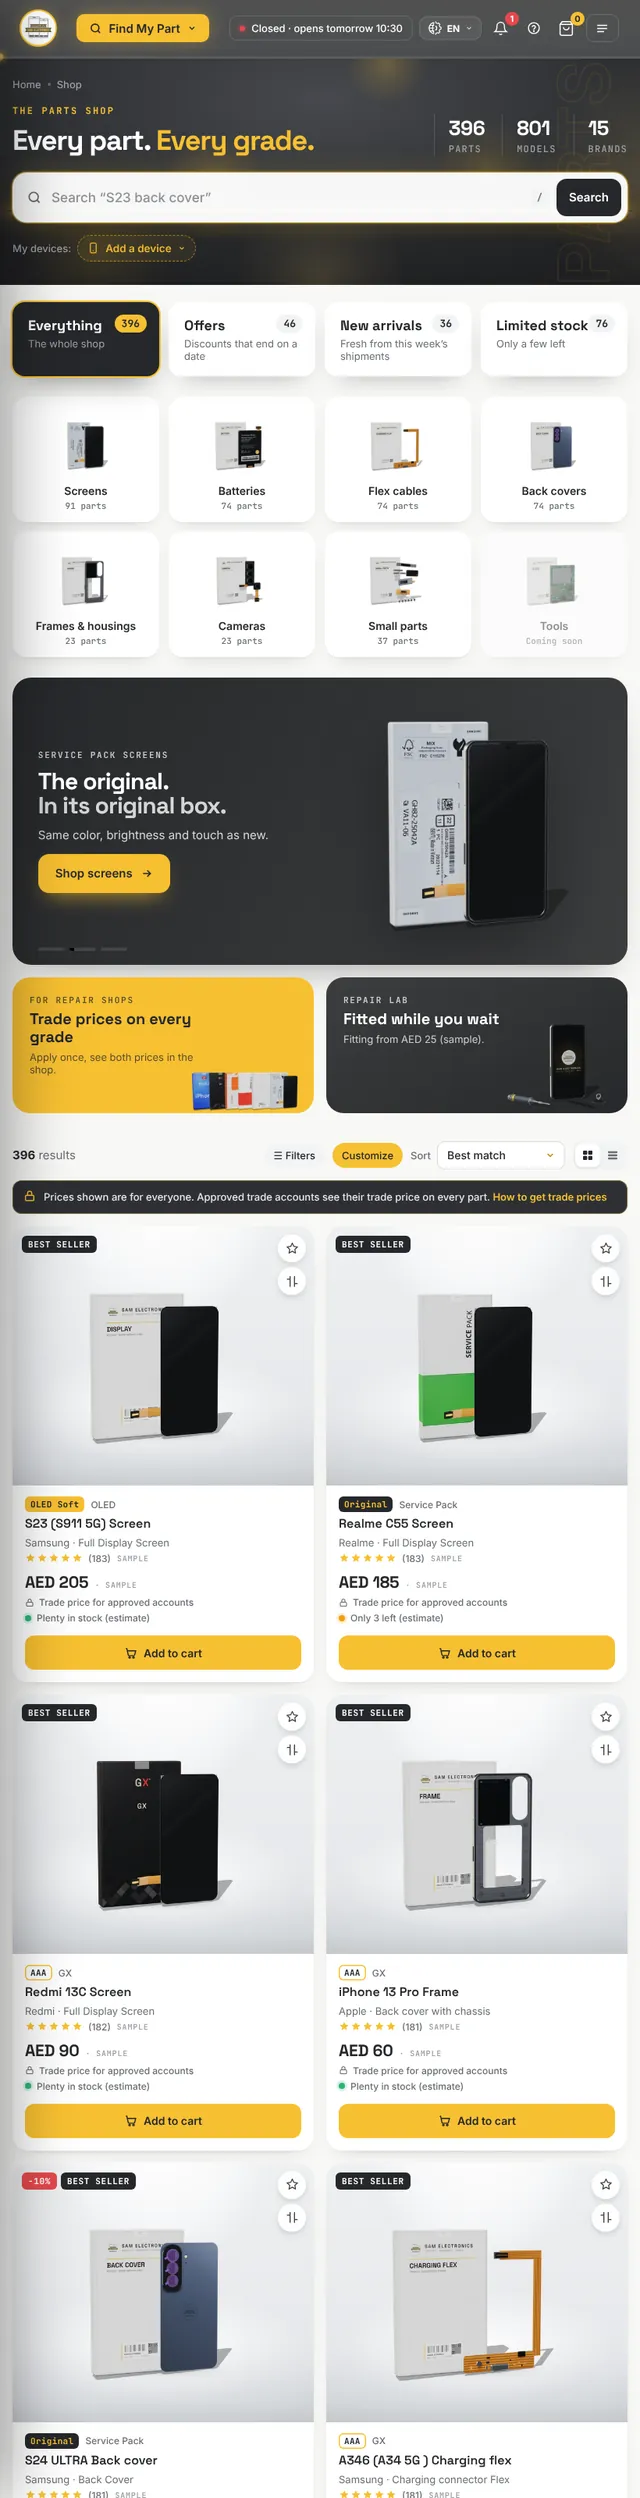
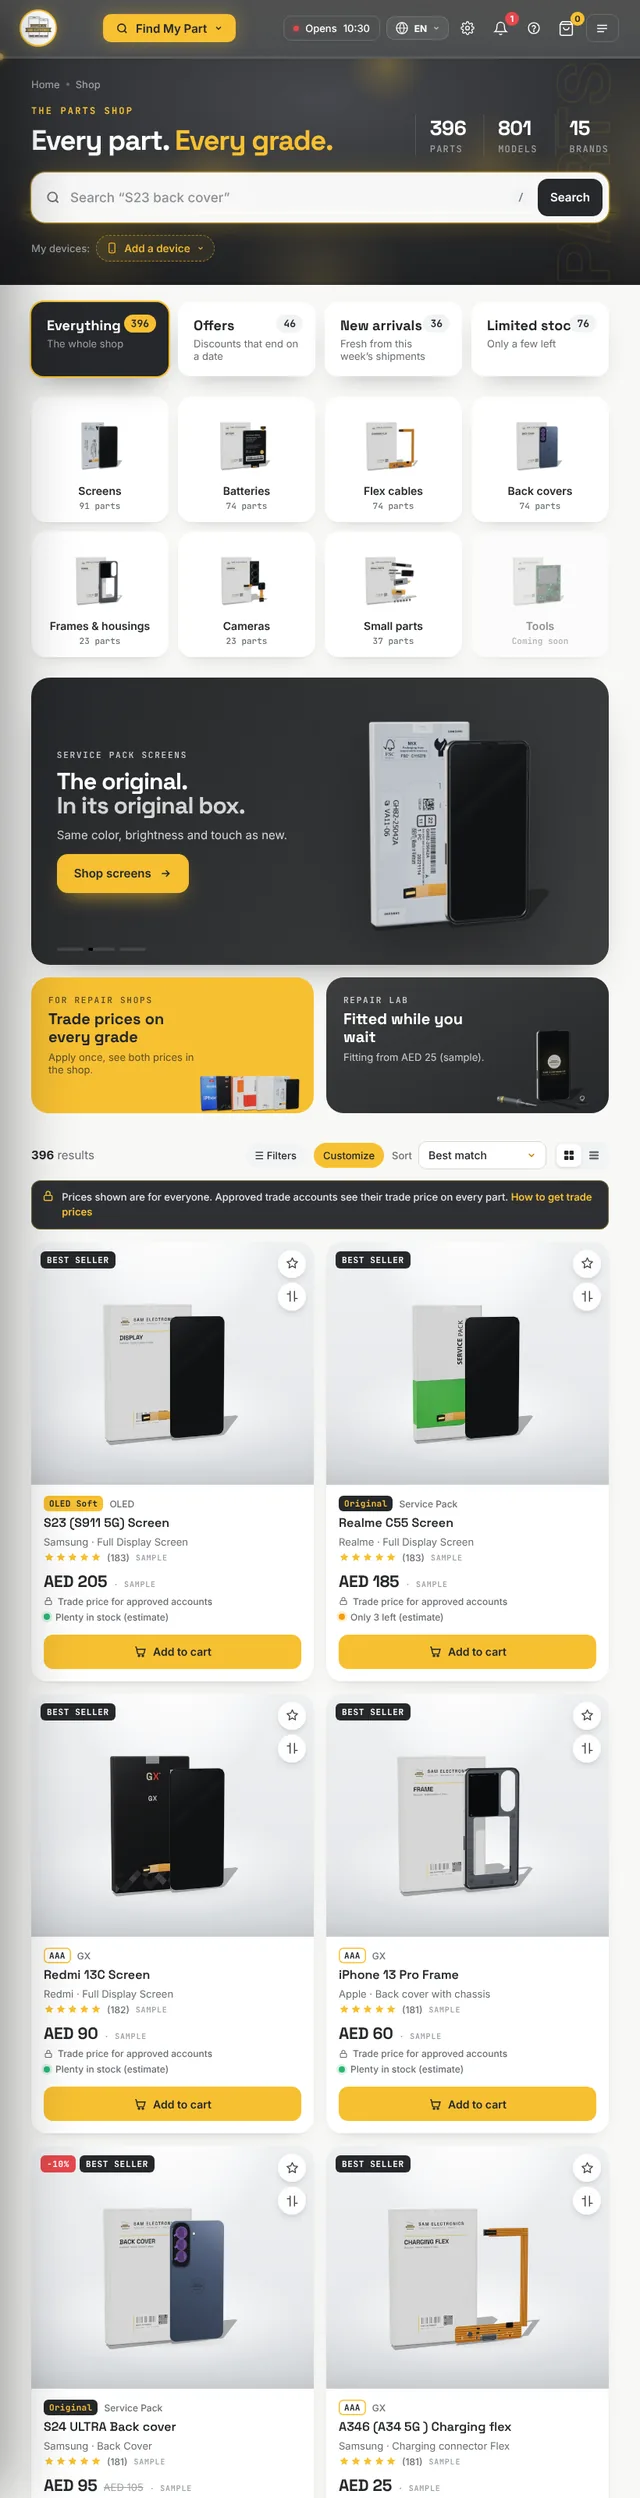
Hero iPad shows the real store with proper margins; slim titanium side buttons; clean thin-edged device drawings; phone and tablet bars evenly spaced with matching buttons
Claude-Session: https://claude.ai/code/session_01P8AckSMADMeGBQ4akRKdxc

diff --git a/site/src/components/home/DeviceIcon.tsx b/site/src/components/home/DeviceIcon.tsx
@@ -1,61 +1,63 @@
-// Owner (26 Oct): the phone / tablet / watch icons were plain outlines. These are small product drawings: a metal body,
-// a glossy screen with a soft glare, the island / camera, side buttons, the watch strap and crown. The accent follows
-// currentColor (white, or yellow when selected).
+// R12 (owner: "cartoonish, thick edges"): clean product drawings. A thin titanium edge (light rolled highlight, darker
+// band), near edge-to-edge black glass with a soft diagonal reflection, and only the real details: the Dynamic Island,
+// the iPad's front camera, the watch's crown, side button and woven band. No outlines, no fake home bar.
 import React from 'react';
 
 type Kind = 'phone' | 'tablet' | 'watch';
 
 export default function DeviceIcon({ kind, size = 22 }: { kind: Kind | string; size?: number }) {
-  const id = 'di' + kind;
+  const id = 'dv' + kind;
   const defs = (
     <defs>
-      <linearGradient id={id + 'b'} x1="0" y1="0" x2="1" y2="1">
-        <stop offset="0" stopColor="#D2D5D9" />
-        <stop offset=".45" stopColor="#7C8086" />
-        <stop offset="1" stopColor="#B6BABF" />
+      <linearGradient id={id + 'm'} x1="0" y1="0" x2="1" y2="0">
+        <stop offset="0" stopColor="#7B7F84" /><stop offset=".06" stopColor="#E6E8EA" /><stop offset=".16" stopColor="#A9ADB2" />
+        <stop offset=".5" stopColor="#C3C6CA" /><stop offset=".84" stopColor="#A2A6AB" /><stop offset=".94" stopColor="#E0E2E4" /><stop offset="1" stopColor="#74787D" />
       </linearGradient>
-      <linearGradient id={id + 's'} x1="0" y1="0" x2="1" y2="1">
-        <stop offset="0" stopColor="#3A3D42" />
-        <stop offset=".6" stopColor="#141518" />
-        <stop offset="1" stopColor="#24262A" />
+      <linearGradient id={id + 'g'} x1="0" y1="0" x2="1" y2="1">
+        <stop offset="0" stopColor="#2B2D31" /><stop offset=".55" stopColor="#0D0E10" /><stop offset="1" stopColor="#1A1B1E" />
+      </linearGradient>
+      <linearGradient id={id + 'r'} x1="0" y1="0" x2="1" y2="1">
+        <stop offset="0" stopColor="#FFFFFF" stopOpacity=".22" /><stop offset=".35" stopColor="#FFFFFF" stopOpacity=".05" /><stop offset=".36" stopColor="#FFFFFF" stopOpacity="0" />
       </linearGradient>
     </defs>
   );
   if (kind === 'tablet')
     return (
-      <svg width={size} height={size} viewBox="0 0 24 24" aria-hidden="true">
+      <svg width={size} height={size} viewBox="0 0 48 48" aria-hidden="true">
         {defs}
-        <rect x="3.2" y="2.2" width="17.6" height="19.6" rx="2.6" fill={`url(#${id}b)`} />
-        <rect x="4.3" y="3.3" width="15.4" height="17.4" rx="1.7" fill={`url(#${id}s)`} />
-        <circle cx="12" cy="2.75" r=".32" fill="#26282B" />
-        <path d="M4.3 3.3h7.6L4.3 13.6z" fill="#fff" opacity=".1" />
-        <rect x="9" y="18.6" width="6" height=".9" rx=".45" fill="currentColor" opacity=".9" />
-        <rect x="16.6" y="1.8" width="2.4" height=".55" rx=".27" fill="#8E939A" />
+        <rect x="7" y="4.5" width="34" height="39" rx="3.6" fill={`url(#${id}m)`} />
+        <rect x="7.7" y="5.2" width="32.6" height="37.6" rx="3" fill="#050506" />
+        <rect x="9.2" y="6.7" width="29.6" height="34.6" rx="1.6" fill={`url(#${id}g)`} />
+        <rect x="9.2" y="6.7" width="29.6" height="34.6" rx="1.6" fill={`url(#${id}r)`} />
+        <circle cx="24" cy="5.95" r=".45" fill="#2A2C30" />
+        <rect x="33" y="4.05" width="5" height=".55" rx=".27" fill="#A9ADB2" />
       </svg>
     );
   if (kind === 'watch')
     return (
-      <svg width={size} height={size} viewBox="0 0 24 24" aria-hidden="true">
+      <svg width={size} height={size} viewBox="0 0 48 48" aria-hidden="true">
         {defs}
-        <path d="M8.4 1.6h7.2l.8 4.2H7.6zM7.6 18.2h8.8l-.8 4.2H8.4z" fill="#3D4045" />
-        <path d="M8.9 2.4h6.2M8.6 21.6h6.8" stroke="#565A60" strokeWidth=".5" />
-        <rect x="5.6" y="5.2" width="12.8" height="13.6" rx="3.6" fill={`url(#${id}b)`} />
-        <rect x="6.6" y="6.2" width="10.8" height="11.6" rx="2.8" fill={`url(#${id}s)`} />
-        <rect x="18.3" y="9.6" width="1.5" height="2.6" rx=".6" fill="#9DA1A6" />
-        <circle cx="12" cy="12" r="3.2" fill="none" stroke="currentColor" strokeWidth="1.1" strokeDasharray="14 6.2" strokeLinecap="round" transform="rotate(-90 12 12)" />
-        <path d="M6.6 6.2h5L6.6 12.4z" fill="#fff" opacity=".1" />
+        <path d="M16.6 3h14.8l1.2 8.6H15.4zM15.4 36.4h17.2L31.4 45H16.6z" fill="#2E3034" />
+        <path d="M17.4 5h13.2M17.2 7h13.6M17 9h14M17 39h14M17.2 41h13.6M17.4 43h13.2" stroke="#3B3E43" strokeWidth=".55" />
+        <rect x="11.6" y="10.6" width="24.8" height="26.8" rx="7.2" fill={`url(#${id}m)`} />
+        <rect x="12.4" y="11.4" width="23.2" height="25.2" rx="6.5" fill="#050506" />
+        <rect x="13.8" y="12.8" width="20.4" height="22.4" rx="5.4" fill={`url(#${id}g)`} />
+        <rect x="13.8" y="12.8" width="20.4" height="22.4" rx="5.4" fill={`url(#${id}r)`} />
+        <rect x="36.2" y="18.2" width="1.8" height="4.6" rx=".8" fill={`url(#${id}m)`} />
+        <rect x="36.3" y="25.2" width="1.2" height="3.6" rx=".5" fill="#A9ADB2" />
       </svg>
     );
   return (
-    <svg width={size} height={size} viewBox="0 0 24 24" aria-hidden="true">
+    <svg width={size} height={size} viewBox="0 0 48 48" aria-hidden="true">
       {defs}
-      <rect x="6" y="1.4" width="12" height="21.2" rx="2.8" fill={`url(#${id}b)`} />
-      <rect x="6.9" y="2.3" width="10.2" height="19.4" rx="2.1" fill={`url(#${id}s)`} />
-      <rect x="10.3" y="3.3" width="3.4" height="1.05" rx=".52" fill="#050506" />
-      <path d="M6.9 2.3h6.2L6.9 12.8z" fill="#fff" opacity=".1" />
-      <rect x="9.6" y="19.9" width="4.8" height=".6" rx=".3" fill="currentColor" opacity=".9" />
-      <rect x="5.45" y="6.4" width=".6" height="2.2" rx=".3" fill="#8E939A" />
-      <rect x="17.95" y="7.2" width=".6" height="3.2" rx=".3" fill="#8E939A" />
+      <rect x="13.2" y="2.6" width="21.6" height="42.8" rx="5.4" fill={`url(#${id}m)`} />
+      <rect x="13.85" y="3.25" width="20.3" height="41.5" rx="4.8" fill="#050506" />
+      <rect x="15" y="4.4" width="18" height="39.2" rx="3.9" fill={`url(#${id}g)`} />
+      <rect x="15" y="4.4" width="18" height="39.2" rx="3.9" fill={`url(#${id}r)`} />
+      <rect x="21.2" y="5.6" width="5.6" height="1.7" rx=".85" fill="#000" />
+      <rect x="12.75" y="11" width=".5" height="3" rx=".25" fill="#A9ADB2" />
+      <rect x="12.75" y="15.6" width=".5" height="4.6" rx=".25" fill="#A9ADB2" />
+      <rect x="34.75" y="13.6" width=".5" height="6.4" rx=".25" fill="#A9ADB2" />
     </svg>
   );
 }

diff --git a/site/src/styles/phone.css b/site/src/styles/phone.css
@@ -118,3 +118,22 @@
   .se-nav-right { gap: 4px !important; }
   .se-nav-right > *, .se-nav-right button { flex: none; }
 }
+/* R12 (owner: phone bar looked odd/missing): one row of identical 38px buttons on the right (search in yellow first),
+   help back in the row, the logo a little smaller on the left */
+@media (max-width: 760px) {
+  .se-help { display: grid !important; }
+  .se-nav-right { margin-inline-start: auto; }
+  [data-tour="fmp"] { margin-inline-start: auto !important; }
+  [data-tour="fmp"] > button { width: 38px !important; height: 38px !important; border-radius: 11px !important; }
+  .se-lm-btn, .se-help, .nb > button, [data-tour="cart"], [data-tour="menu"] { width: 38px !important; height: 38px !important; min-width: 38px; padding: 0 !important; display: grid !important; place-items: center !important; border-radius: 11px !important; border: 0 !important; background: rgba(255, 255, 255, .07) !important; box-shadow: inset 0 0 0 1px rgba(255, 255, 255, .1) !important; }
+  .se-nav-right { gap: 6px !important; }
+  header a[href="/"] img, nav a[href="/"] img { width: 42px !important; height: 42px !important; }
+}
+@media (max-width: 380px) { .se-help { display: none !important; } }
+@media (max-width: 760px) { [data-tour="nav"] { margin-inline-start: auto !important; flex: none !important; gap: 0 !important; } [data-tour="fmp"] { margin-inline-start: 0 !important; } .se-nav-right { margin-inline-start: 6px !important; } }
+/* R12 (owner): on phones the logo and every button spread out evenly across the bar, like on the computer */
+@media (max-width: 1100px) {
+  header > div:first-of-type { justify-content: space-between !important; gap: 0 !important; }
+  header [data-tour="nav"], header .se-nav-right, header .se-lm { display: contents !important; }
+}
+@media (max-width: 760px) { header [data-tour="nav"] > a { display: none !important; } }

diff --git a/site/src/styles/system.css b/site/src/styles/system.css
@@ -96,3 +96,7 @@ html[dir='rtl'] [data-prog='bar'] { background-image: linear-gradient(270deg, #F
 .fp-dev-ic { width: 112px !important; height: 112px !important; border-radius: 16px !important; background: radial-gradient(60% 55% at 50% 30%, rgba(255, 244, 222, .12), rgba(255, 244, 222, 0) 70%), radial-gradient(50% 12% at 50% 92%, rgba(0, 0, 0, .45), rgba(0, 0, 0, 0)) !important; box-shadow: none !important; display: grid !important; place-items: center; }
 .fp-dev-ic svg { filter: drop-shadow(0 10px 12px rgba(0, 0, 0, .45)); transition: transform .35s cubic-bezier(.2, 1, .3, 1); }
 button:hover .fp-dev-ic svg, .on .fp-dev-ic svg { transform: translateY(-4px) rotate(-3deg); }
+/* R12 (owner: "weird big buttons"): side buttons are slim, flush strips of the same titanium, barely raised */
+.se-hwb-r, .se-hwb-l { width: 2.4px !important; margin-inline: .6px; border-radius: 1.2px !important; background: linear-gradient(90deg, #8C9095, #D3D6D9 55%, #9A9EA3) !important; box-shadow: 0 0 0 .4px rgba(12, 13, 14, .35) !important; }
+.se-hwb-t { height: 2.4px !important; margin-top: .6px; border-radius: 1.2px !important; background: linear-gradient(180deg, #D3D6D9, #8C9095) !important; box-shadow: 0 0 0 .4px rgba(12, 13, 14, .35) !important; }
+.se-chamfer { opacity: .5; }
